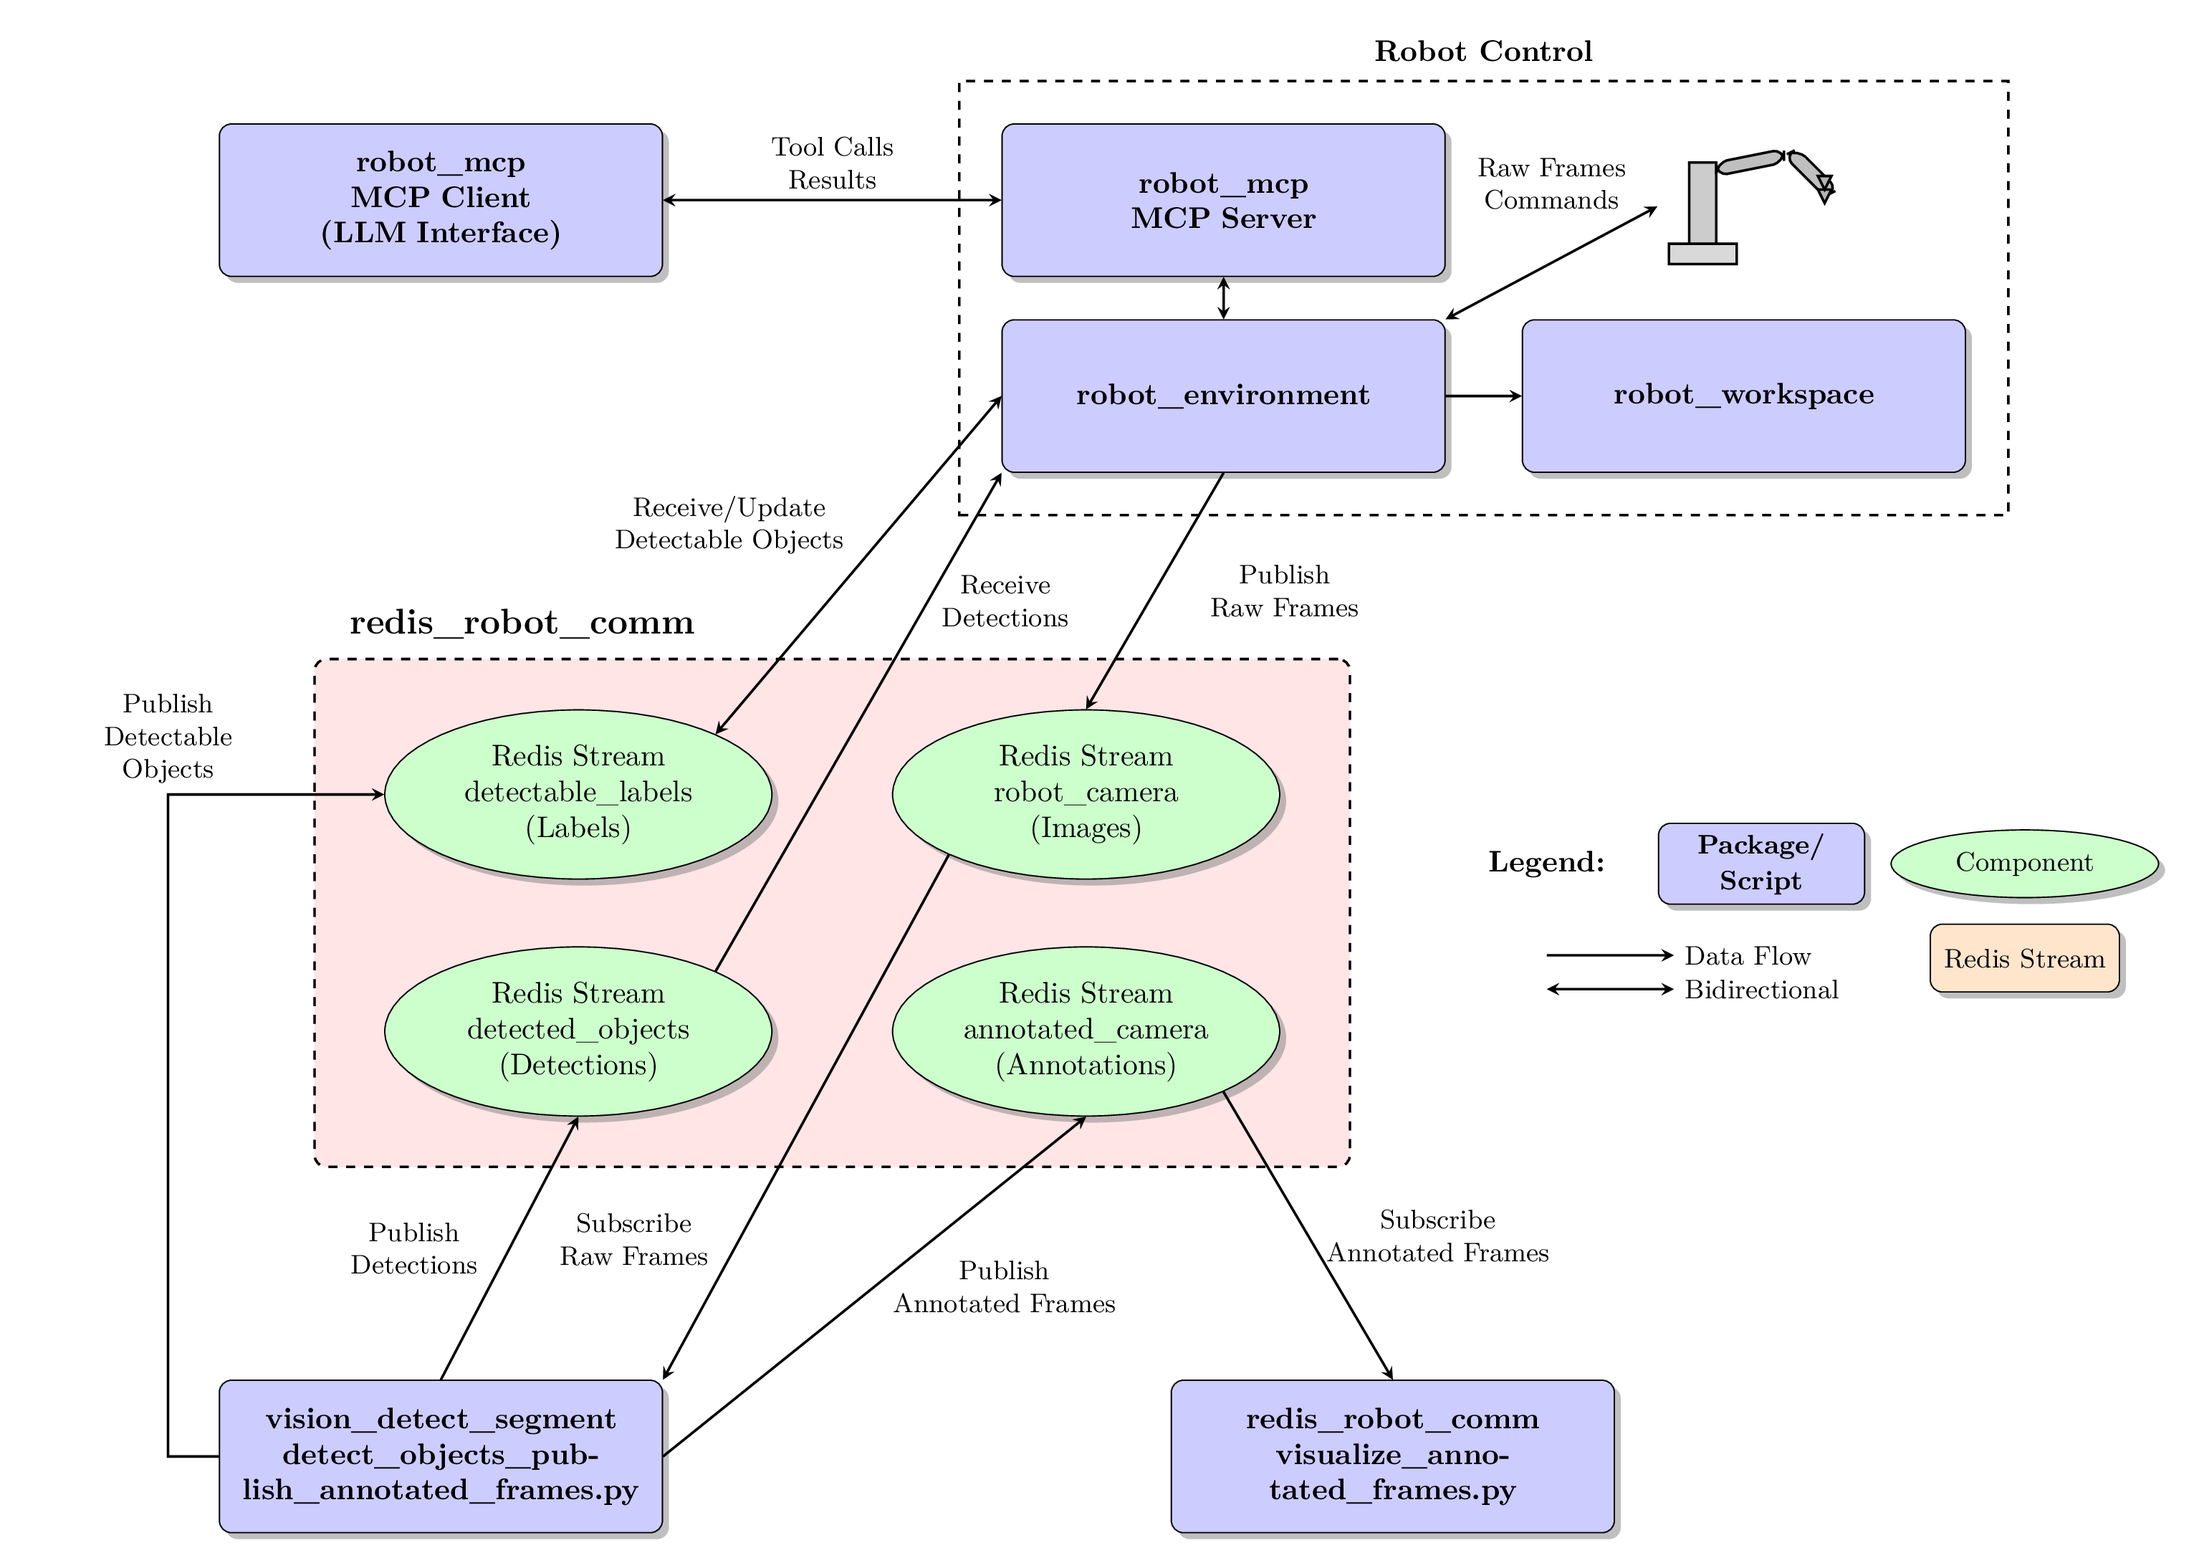
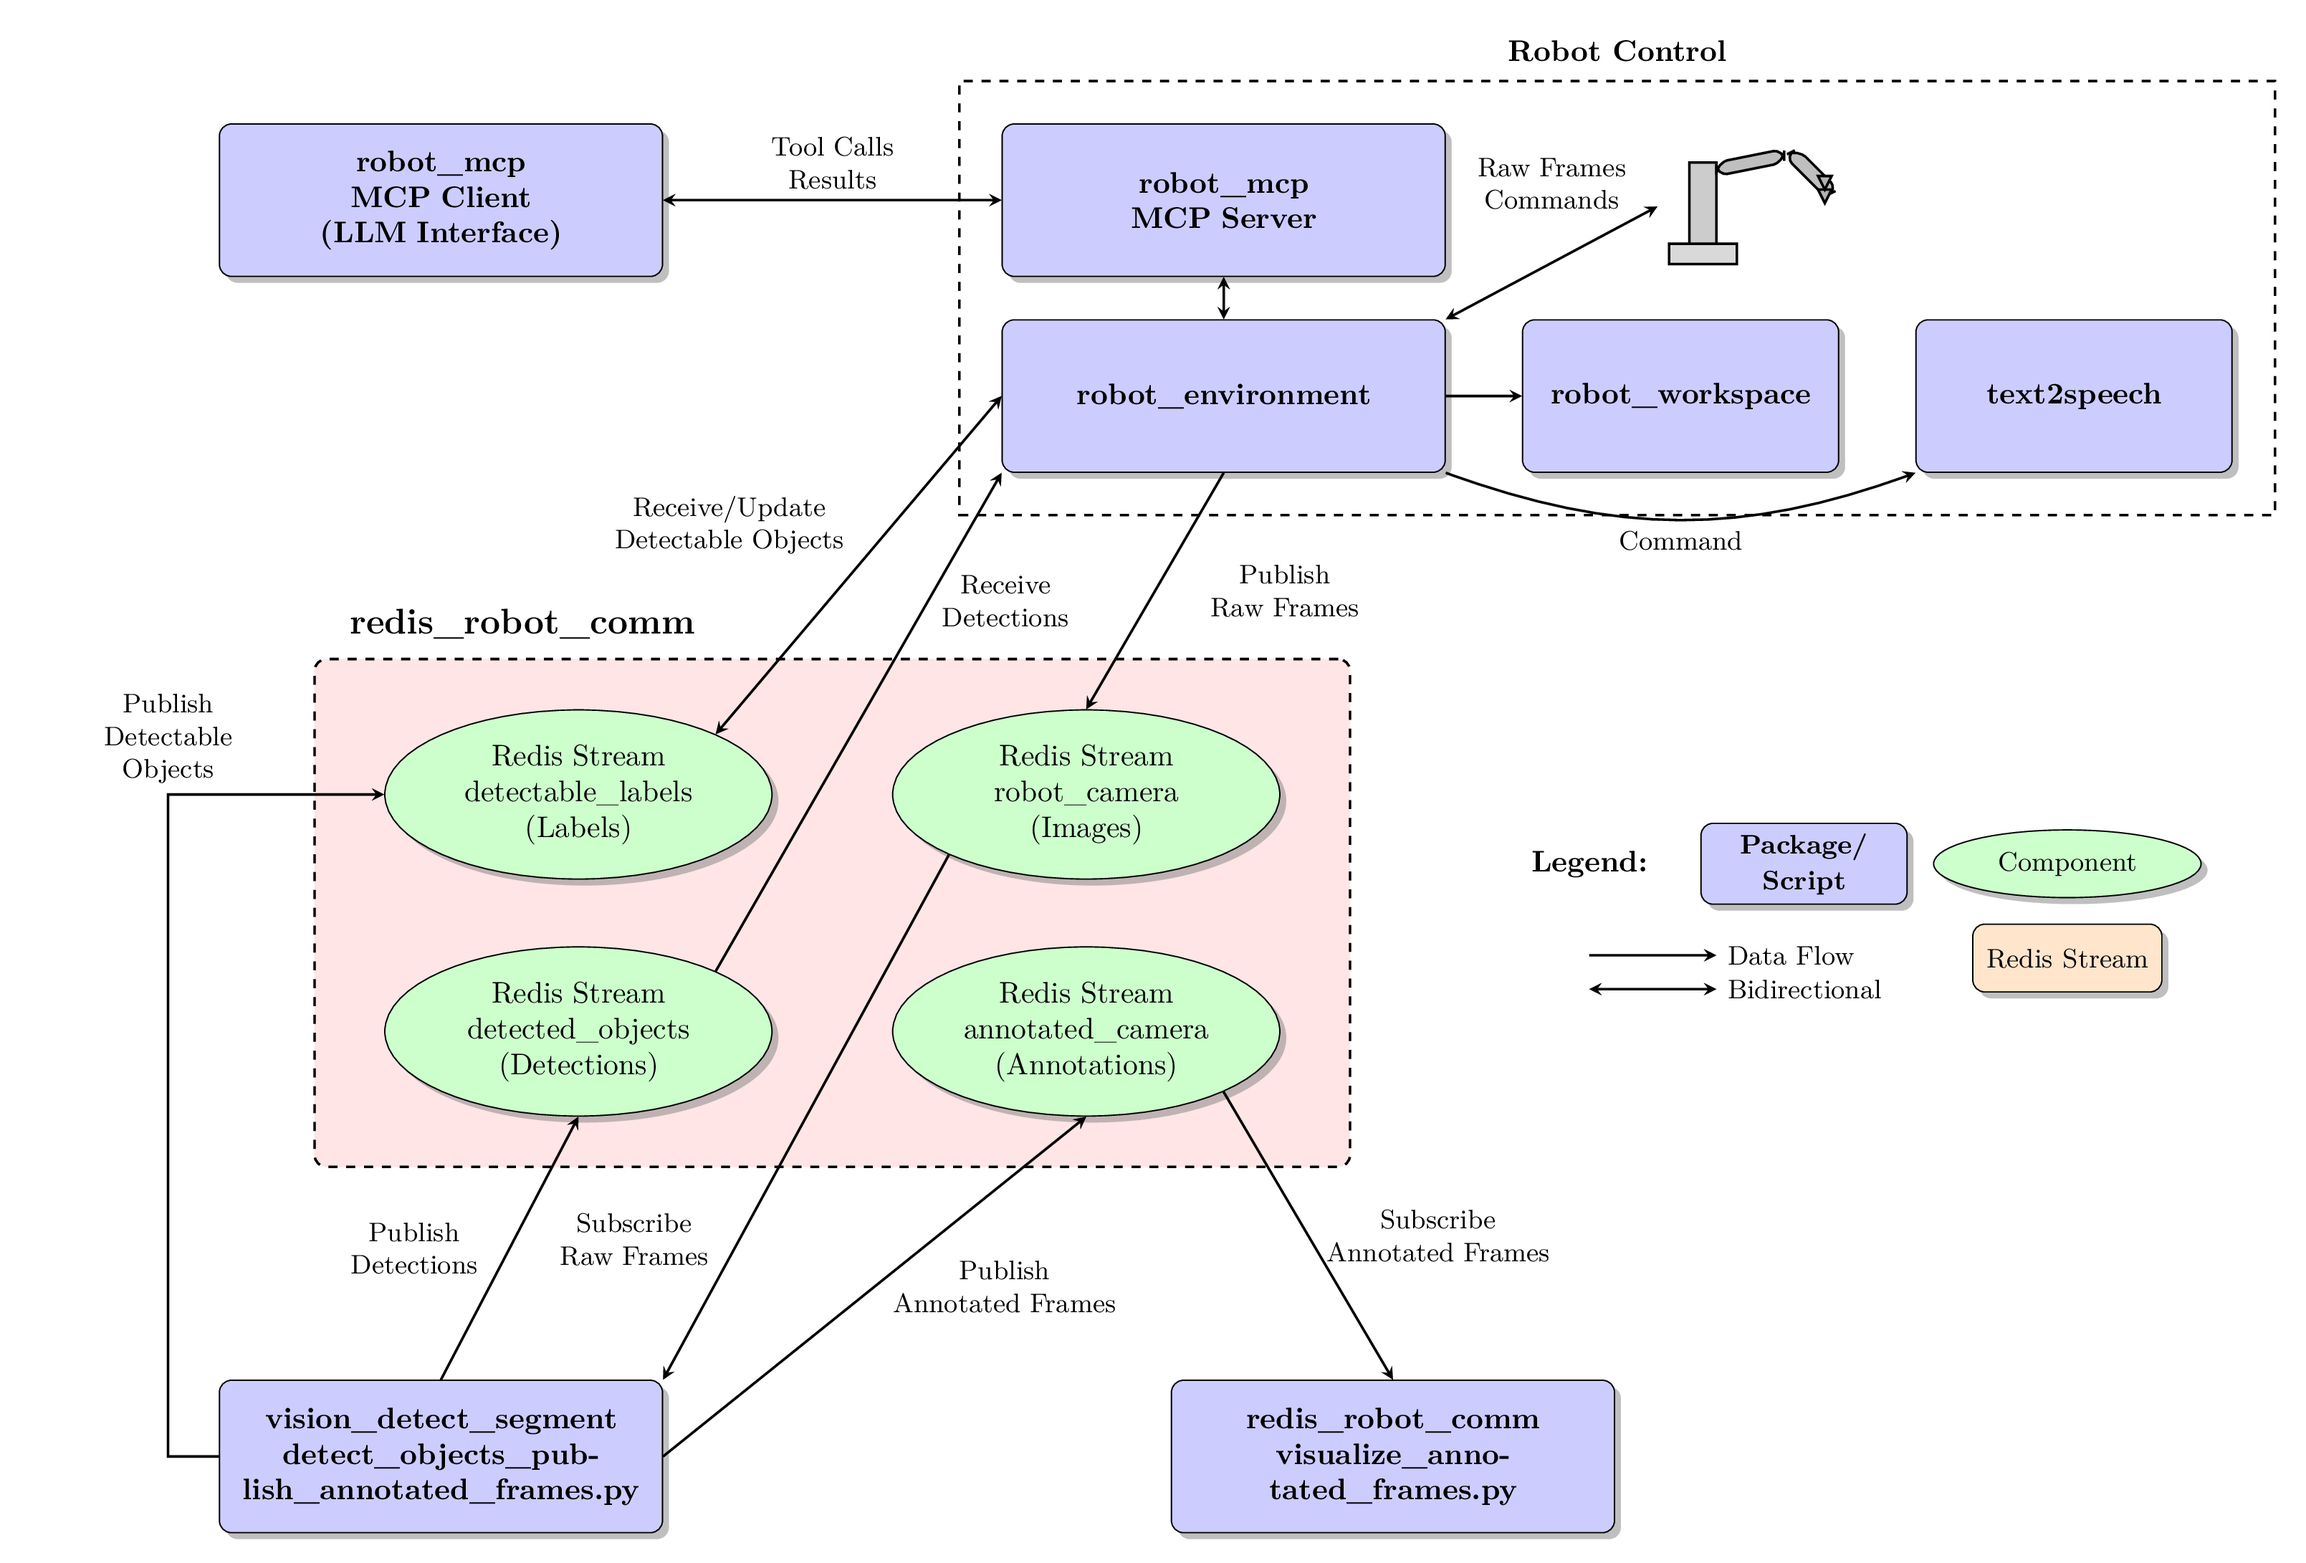
added video

diff --git a/docs/tex/redis_applications_architecture_diagram.tex b/docs/tex/redis_applications_architecture_diagram.tex
@@ -90,7 +90,8 @@
   \node[repository, above right=4.5cm and 2cm of redis_layer.north] (mcp_server) {robot\_mcp\\MCP Server};
 
   \node[repository, below=0.5cm of mcp_server] (robot_env) {robot\_environment};
-  \node[repository, right=0.9cm of robot_env] (robot_ws) {robot\_workspace};
+  \node[repository, right=0.9cm of robot_env, text width=3.5cm] (robot_ws) {robot\_workspace};
+  \node[repository, right=0.9cm of robot_ws, text width=3.5cm] (text2speech) {text2speech};
 
   % Robot pictogram (simplified)
   \node[above right=-1.8cm and 2.5cm of mcp_server] (robot_pic) {
@@ -134,6 +135,7 @@
   \draw[arrow] (robot_env.south) -- node[right, label] {Publish\\Raw Frames} (redis_images.north);
   \draw[arrow] (robot_env.east) -- (robot_ws.west);
   \draw[bidirectional] (robot_env.west) -- node[above left=0.0cm and 0.0cm, label] {Receive/Update\\Detectable Objects} (redis_labels.north east);
+  \draw[arrow] (robot_env.south east) to[bend right=20] node[below, label] {Command} (text2speech.south west);
 
   % MCP Server <- Redis (object data)
   \draw[arrow] (redis_objects.north east) -- node[above right=1.0cm and 0.2cm, label] {Receive\\Detections} (robot_env.south west);
@@ -153,7 +155,7 @@
   % Group Boxes
   % ============================================================
 
-  \node[draw, dashed, thick, fit=(mcp_server) (robot_env) (robot_ws) (robot_pic),
+  \node[draw, dashed, thick, fit=(mcp_server) (robot_env) (robot_ws) (robot_pic) (text2speech),
   inner sep=0.5cm] (server_group) {};
   \node[above=0.1cm of server_group] {\textbf{Robot Control}};
 
@@ -161,7 +163,7 @@
   % Legend
   % ============================================================
 
-  \node[above right=0.3cm and 1.5cm of redis_layer.east] (legend_title) {\textbf{Legend:}};
+  \node[above right=0.3cm and 2.0cm of redis_layer.east] (legend_title) {\textbf{Legend:}};
 
   \node[repository, right=0.5cm of legend_title, minimum height=0.8cm, text width=2.2cm] (leg_repo) {\small Package/ Script};
   \node[component, right=0.3cm of leg_repo, minimum height=0.8cm, text width=2.0cm] (leg_comp) {\small Component};

diff --git a/README.md b/README.md
@@ -15,6 +15,8 @@ Natural language robot control using **FastMCP** and **Multi-LLM Support** (Open
 
 Control robotic arms (Niryo Ned2, WidowX) through natural language using the Model Context Protocol (MCP) and **multiple LLM providers**. Simply tell the robot what to do: *"Pick up the pencil and place it next to the red cube"*.
 
+<iframe width="560" height="315" src="https://www.youtube.com/embed/G69l3VyHL-0?si=JhubMV5wWhLz0QxJ" title="YouTube video player" frameborder="0" allow="accelerometer; autoplay; clipboard-write; encrypted-media; gyroscope; picture-in-picture; web-share" referrerpolicy="strict-origin-when-cross-origin" allowfullscreen></iframe>
+
 ### 🆕 Multi-LLM Support
 
 Now supports **4 LLM providers** with automatic API detection:
